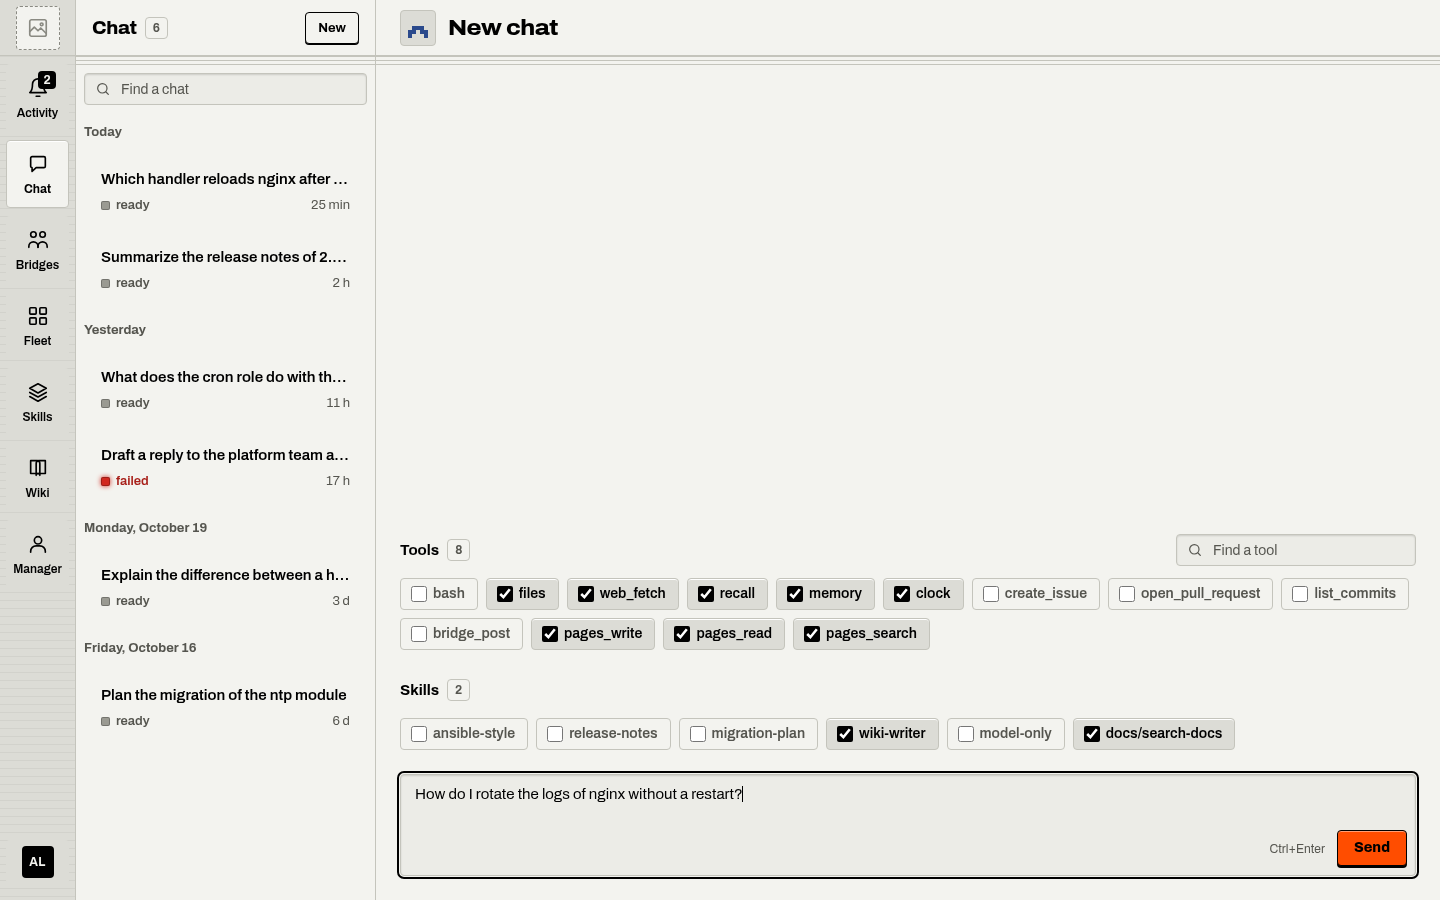
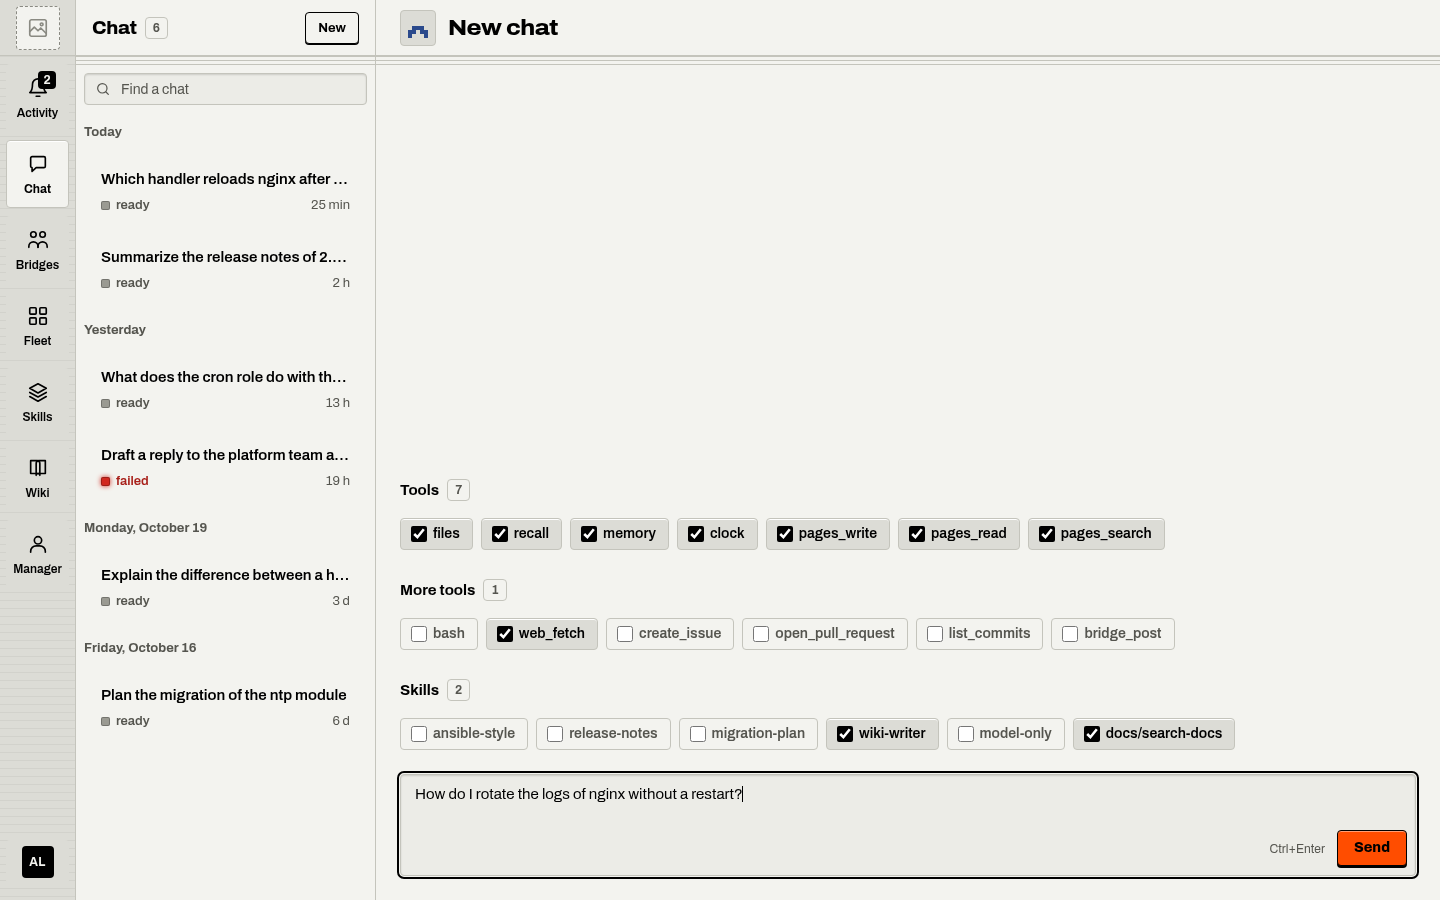
The light shots of the channel, the fleet, and the chat show the fixes of the walk
The shots final-light-1440-channel, final-light-1440-channel-picker,
final-light-800-channel, final-light-390-channel, the three shots of the
fleet with migrator-1, final-light-1440-chat, final-light-1440-chat-new,
and final-light-390-chat are taken again against the fake. They show the
agents of the fleet in the picker, with On this bridge as the agents of
the seats, the lines of the channel in the words of the page, You for the
person, Close bridge in More at 1440 pixels, the tool chips and the parts
of each heart on the profile, the whole handle in the header of a member
at 800 pixels, and Tools and More tools in a new chat, with This chat
naming the tools that the chat started with. DESIGN.md says which shots
show the walk.

Changed region(s): [[0.2812, 0.5289, 0.9062, 0.7467], [0.9062, 0.6533, 0.9688, 0.6844]]

diff --git a/docs/DESIGN.md b/docs/DESIGN.md
@@ -687,6 +687,13 @@ The last screen adds the Chat place and the live answer. The files are
 so the answer stops near its middle while it streams in. Each name says the
 theme, the width, and the screen: `final-<light|graphite>-<width>-<screen>.png`.
 
+After a walk of the page on a real fleet, the light shots of `channel`,
+`channel-picker`, `fleet`, `chat`, and `chat-new` show the fixes of that
+walk: the agents of the fleet in the picker, the lines of the channel in
+the words of the page, the person as You, the room of the title, the tool
+chips and the hearts of the profile, and the picks of the profile in a new
+chat. The graphite shots of these screens show the page before the walk.
+
 | Screen | What | Widths and themes |
 |---|---|---|
 | `channel-picker` | The first board: a decision that waits, the reply chip, the picker of Add open, and a new seat row | 1440, both |
